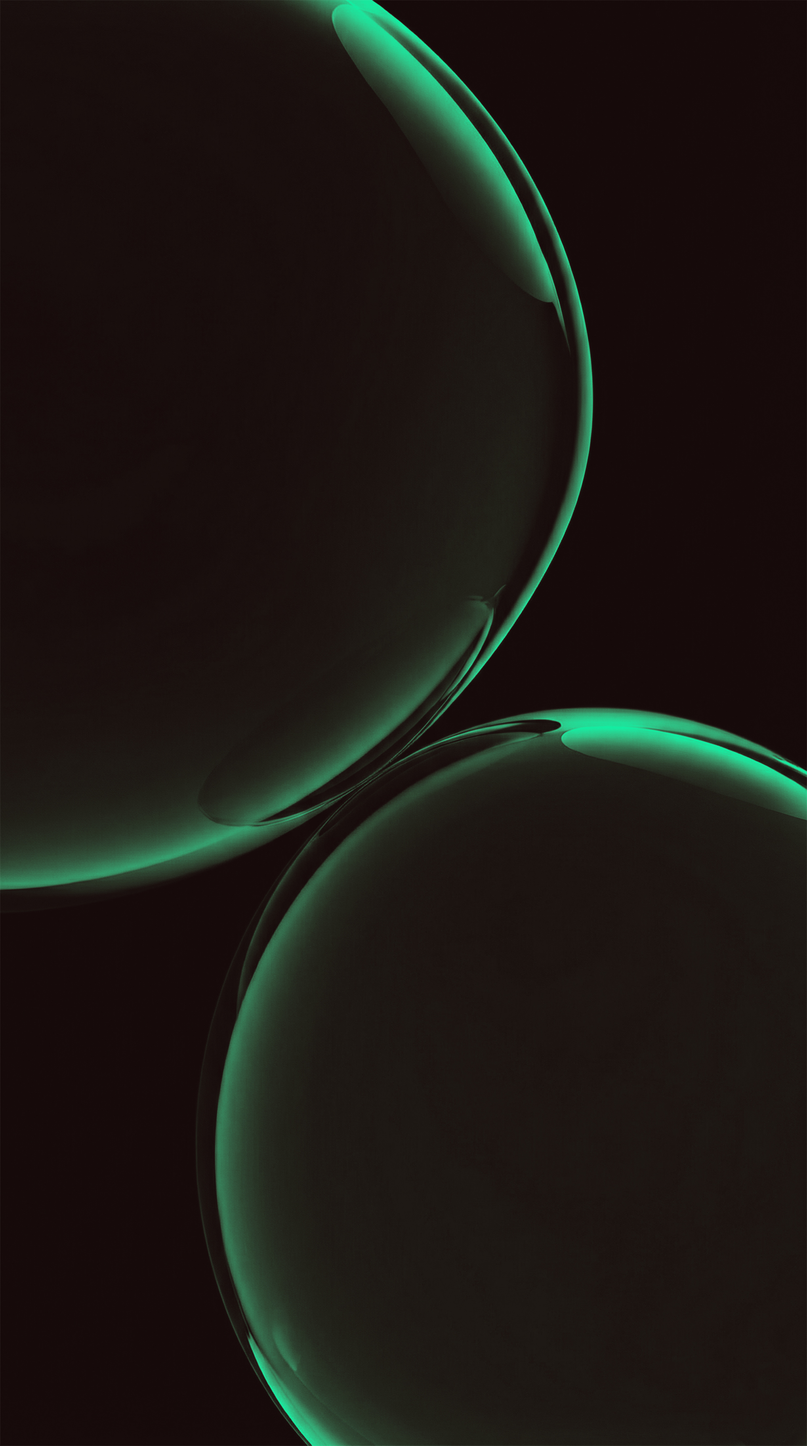
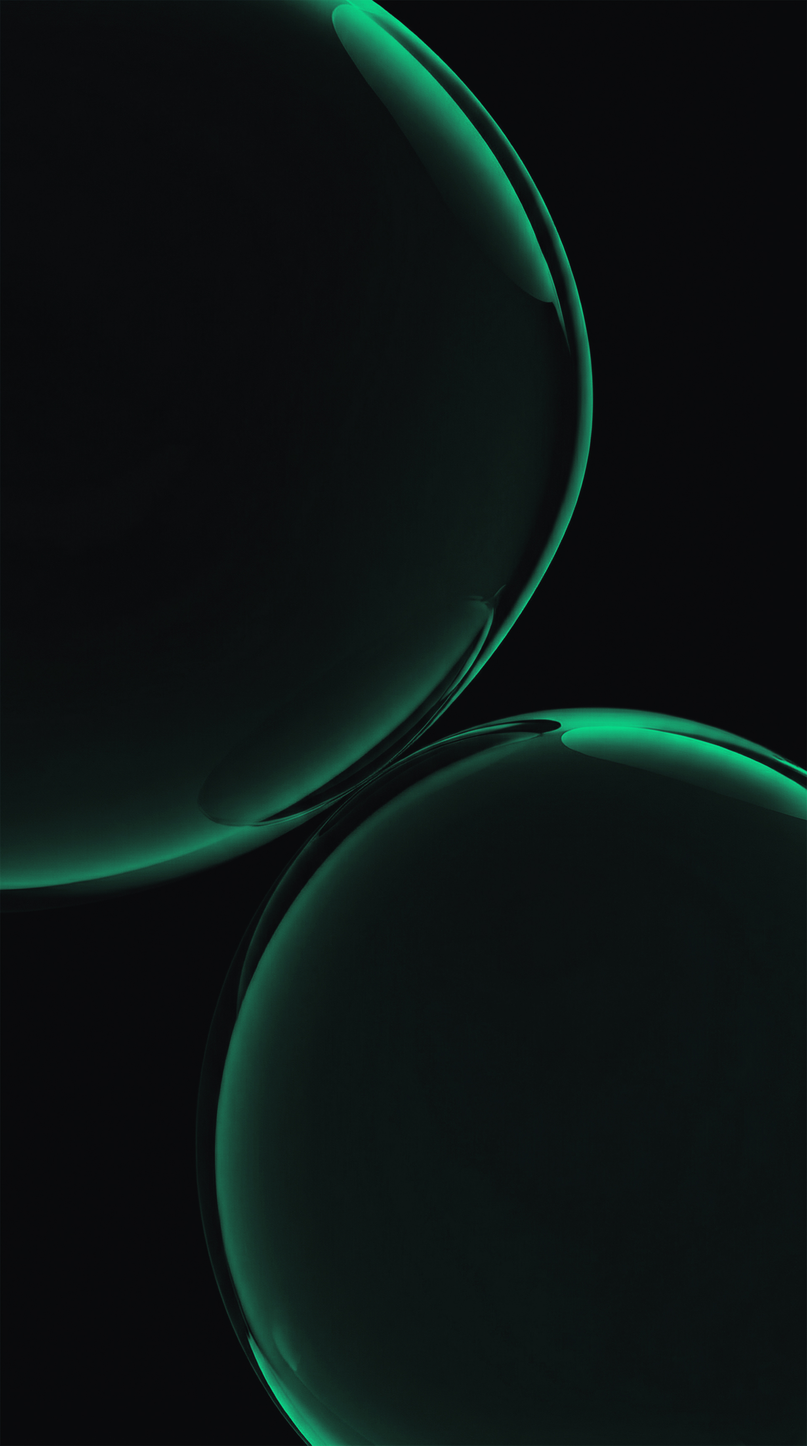
photos fix

diff --git a/src/pages/technical-programming-committee.tsx b/src/pages/technical-programming-committee.tsx
@@ -283,10 +283,10 @@ const trackCoChairLevels: SpeakerLevel[] = [
         university: "University of Moratuwa, Sri Lanka",
         image: (
           <StaticImage
-            src="../images/programming-committee/Dr.Thushara.Rathnayake.png"
+            src="../images\programming-committee\Dr.Thushara.Rathnayake.png"
             alt="Dr. Thushara Rathnayake"
             className="w-full h-full"
-            objectFit="cover"
+            objectFit="contain"
           />
         ),
       },
@@ -349,10 +349,10 @@ const trackCoChairLevels: SpeakerLevel[] = [
         university: "Singapore University of Technology and Design, Singapore",
         image: (
           <StaticImage
-            src="../images/programming-committee/Dr.Viraj.Muthugala.png"
+            src="../images\programming-committee\Dr.Viraj.Muthugala.png"
             alt="Dr Viraj Muthugala"
             className="w-full h-full"
-            objectFit="cover"
+            objectFit="contain"
           />
         ),
       },

diff --git a/src/pages/index.tsx b/src/pages/index.tsx
@@ -49,7 +49,7 @@ const IndexPage: React.FC<PageProps> = () => {
         {/* Bottom gradient */}
         <div
           className="absolute bottom-0 left-0 w-full h-[40vh] z-10 pointer-events-none"
-          style={{ background: "linear-gradient(to top, rgb(25,25,25), transparent)" }}
+          style={{ background: "linear-gradient(to top, rgb(0,0,0), transparent)" }}
         />
 
         {/* HERO CONTENT */}
@@ -91,7 +91,7 @@ const IndexPage: React.FC<PageProps> = () => {
         {/* Top gradient */}
         <div
           className="absolute top-0 left-0 w-full h-[40vh] z-10 pointer-events-none"
-          style={{ background: "linear-gradient(to bottom, rgb(25,25,25), transparent)" }}
+          style={{ background: "linear-gradient(to bottom, rgb(0,0,0), transparent)" }}
         />
 
         <div className="relative z-20">
